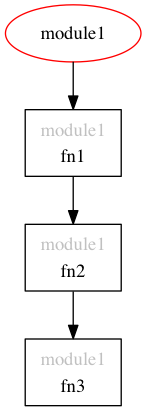
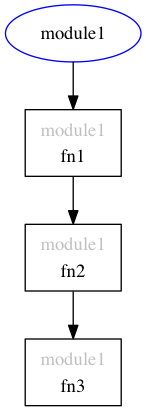
Modified images

diff --git a/simple_examples.py b/simple_examples.py
@@ -15,7 +15,7 @@ def graphCallStack(prefix):
     
     digraph = DiGraph({'format':'png'})
 
-    node = Node({'label':'module1', 'color': 'red'})
+    node = Node({'label':'module1', 'color': 'blue'})
 
     node.append(
         (
@@ -49,7 +49,7 @@ def graphBoth(prefix):
     
     digraph = DiGraph({'format':'png'})
 
-    node = Node({'label':'module1', 'color': 'red'})
+    node = Node({'label':'module1', 'color': 'blue'})
 
     node.append(
             (
@@ -74,7 +74,7 @@ def graphFunctionList(prefix):
     
     digraph = DiGraph({'format':'png'})
 
-    node = Node({'label':'some_module', 'color': 'blue'})
+    node = Node({'label':'module1', 'color': 'blue'})
 
     node.append(
         [
